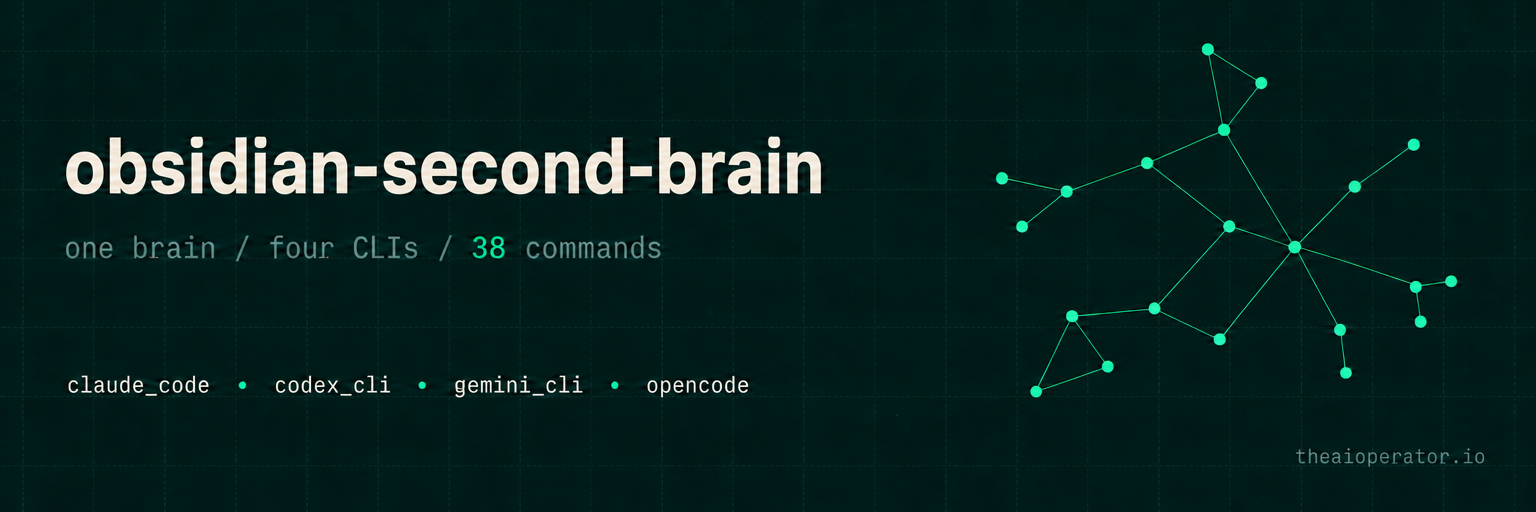
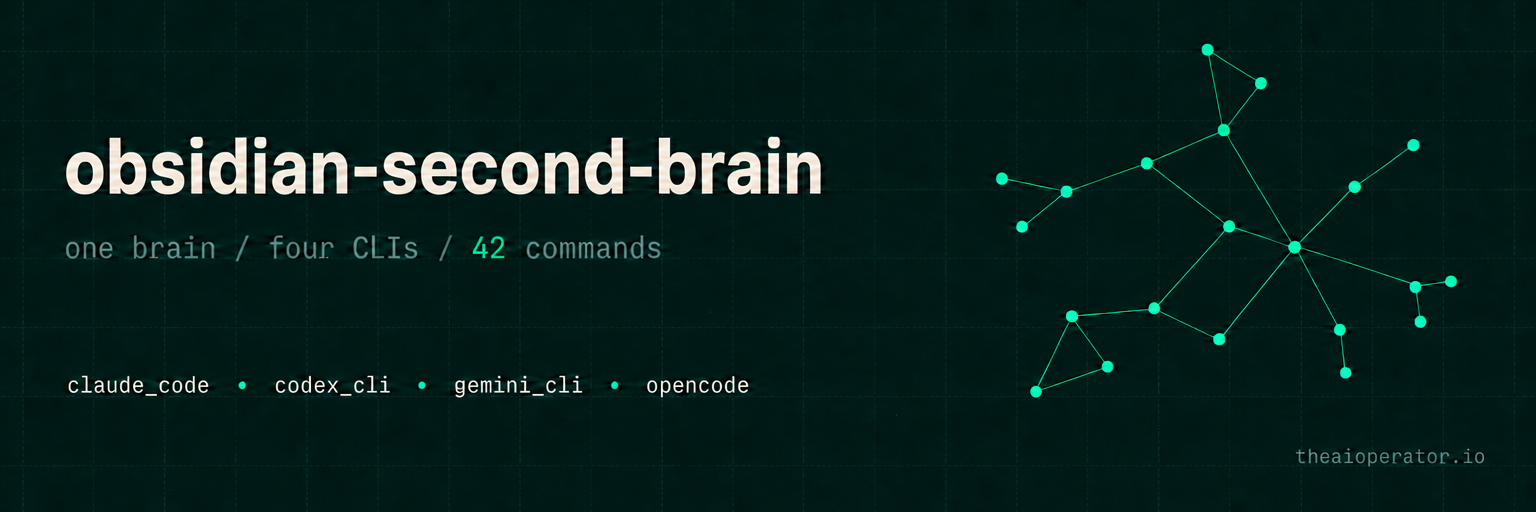
Add 4 commands: /obsidian-calendar, /vault-deep-synthesis, /idea-discovery, /obsidian-panel (#53)
- /obsidian-calendar (Claude Code only): reconciles the vault against the
  calendar, flags vault-implied commitments that are not scheduled. Flag
  only, never writes events. The inverse of /obsidian-daily's pull.
- /vault-deep-synthesis [topic]: topic-driven cross-reference of every
  note on a topic (agreements / contradictions / stale / gaps). Pure
  vault; distinct from the unprompted /obsidian-synthesize.
- /idea-discovery: ranks 3-5 next-direction candidates from ungraduated
  ideas, open project questions, and orphan research.
- /obsidian-panel: convenes a panel of distinct lenses on a decision
  (optional Advisors/ folder, else 4 generic lenses); multi-persona
  complement to /obsidian-challenge.

The 3 thinking commands reuse the existing type: synthesis schema (no new
schema). Adapted from fork sources, de-personalized, AI-first +
anti-fabrication footers added. Counts bumped to 42 (vault 16, thinking
13; 38 cross-platform, calendar is Claude-only); banner 38 -> 42. Also
fixed leftover "the the ... fork fork" de-naming artifacts in CHANGELOG.

Implements FORK_INSIGHTS.md #11, #12, #13, #14.

diff --git a/SKILL.md b/SKILL.md
@@ -106,7 +106,7 @@ See `references/vault-schema.md` for full structural details.
 ## Core Operating Principles
 
 ### AI-first vault rule (applies to every note)
-The vault is designed for **future-Claude** to read and reason over, not for human review. Every note Claude writes - across all 38 commands - must follow `references/ai-first-rules.md`:
+The vault is designed for **future-Claude** to read and reason over, not for human review. Every note Claude writes - across all 42 commands - must follow `references/ai-first-rules.md`:
 
 1. **Self-contained context** - each note explains itself; don't rely on backlinks alone
 2. **"For future Claude" preamble** - 2-3 sentence summary so Claude can decide relevance in 10 seconds
@@ -409,6 +409,14 @@ Resolve the event (`last`, `next`, `today`, `event-id:<id>`, or fuzzy title), cr
 **Tracks a recurring obligation (payment, filing, ops) with a cadence and a computed next-due date.**
 
 State the obligation and cadence (e.g. "pay social benefits, monthly day 20"). Searches for an existing note first, then builds a `type: recurring-task` note with What / Cadence / Blockers / History sections and frontmatter (`cadence`, `owner`, `blocker`, `next-due`, optional `amount`). Adds a board card for the next occurrence; on each completion, appends a History row and advances `next-due`. Fills the gap that `/obsidian-task` (one-shot) leaves.
+
+---
+
+### `/obsidian-calendar`
+
+**Reconciles the vault against your calendar - flags commitments implied by notes that are not scheduled.** Claude Code only (needs the Google Calendar MCP).
+
+Window argument (`today` / `this week` / `this month`, default this week). Pulls the calendar, then gathers vault-implied commitments by listing and grepping (project `next_action`s and deadlines, due tasks, commitments in recent daily notes, fixed dates in `CRITICAL_FACTS.md`), and reports the gap in two directions. **Flag only - never adds, moves, or changes calendar events.** The inverse of `/obsidian-daily`'s calendar pull.
 
 ---
 
@@ -775,6 +783,30 @@ Steps:
 8. Link the new project from today's daily note
 
 The idea doesn't die - it evolves. The original note stays as the origin story.
+
+---
+
+### `/obsidian-panel`
+
+**Convenes a panel of distinct perspectives on a decision - one independent verdict per lens, then a synthesis.**
+
+A multi-persona complement to `/obsidian-challenge` (which red-teams from one stance). Uses the vault's `Advisors/` persona notes as panelists if they exist, otherwise four generic lenses (skeptic, user, operator, long-game). Each panelist argues independently before the synthesis; the disagreement is the point and is never hidden. Saves a `type: synthesis` note to `wiki/concepts/`.
+
+---
+
+### `/vault-deep-synthesis [topic]`
+
+**Cross-references everything the vault knows about one topic: agreements, contradictions, stale claims, coverage gaps.**
+
+Topic-driven (unlike `/obsidian-synthesize`, which scans the whole vault unprompted). Pure vault, no network. Greps and reads every note touching the topic, then consolidates into what the vault agrees on, where notes contradict (surfaced, not resolved - that is `/obsidian-reconcile`), what looks stale, and what is missing. Saves a `type: synthesis` note; never modifies the sources.
+
+---
+
+### `/idea-discovery`
+
+**Ranks 3-5 next-direction candidates from ungraduated ideas, open project questions, and orphan research.**
+
+Answers "what is worth doing next" from vault material. Distinct from `/obsidian-emerge` (names unstated patterns) and `/obsidian-graduate` (promotes one chosen idea). Ranks candidates by a stated heuristic (recency, pull, momentum) and gives the smallest next step for each. Does not auto-graduate.
 
 ---
 

diff --git a/commands/obsidian-calendar.md b/commands/obsidian-calendar.md
@@ -1,0 +1,31 @@
+---
+description: Reconcile the vault against your calendar - flag deadlines and commitments implied by notes that are not on the calendar. Flag only, never adds events
+category: vault
+exclude: [codex-cli, gemini-cli, opencode]
+triggers_en: ["calendar check", "reconcile calendar", "what's not on my calendar", "calendar reconciliation", "am I missing anything on my calendar"]
+---
+
+Use the obsidian-second-brain skill. Execute `/obsidian-calendar $ARGUMENTS`:
+
+Catch the gap between what the vault knows you need to do and what is actually scheduled. The optional argument is a window (`today`, `this week`, `this month`); default to this week.
+
+This command requires a Google Calendar MCP (the claude.ai connector exposes `mcp__claude_ai_Google_Calendar__list_calendars` and `mcp__claude_ai_Google_Calendar__list_events`; if your calendar MCP namespaces its tools differently, use that server's equivalents). If no calendar MCP is connected, say so and stop.
+
+1. Read `_CLAUDE.md` and `CRITICAL_FACTS.md` (for timezone) if they exist.
+2. **Pull the calendar** for the window: find the primary calendar, then list events with times.
+3. **Gather what the vault implies** for the same window - by listing and grepping, never from memory (see the anti-fabrication rule):
+   - Active project `next_action`s and dated deadlines in project notes.
+   - Tasks/board items due in the window.
+   - Commitments mentioned in recent daily notes and captures (appointments, calls, travel, filing deadlines, birthdays).
+   - Fixed dates from `CRITICAL_FACTS.md` falling in the window.
+4. **Reconcile and report**, in two directions:
+   - **Vault-implied, not on the calendar** - the headline output. For each, state the item, its source note (`[[wikilink]]`), and the date/urgency.
+   - **On the calendar, no vault context** (lighter) - events that might warrant a prep note or project link.
+5. **Flag only - never add, move, or change calendar events.** This is a hard boundary. For each gap, propose what the user could do ("add a hold?", "needs a prep note?") but do not touch the calendar.
+6. Offer to record the reconciliation in today's daily note (inject into a section, do not overwrite) so the gaps are tracked; on request, add tasks for items the user intends to act on.
+
+---
+
+**AI-first rule:** Every note created or updated by this command MUST follow `references/ai-first-rules.md` - `## For future Claude` preamble, rich frontmatter (`type`, `date`, `tags`, `ai-first: true`, plus type-specific fields), recency markers per external claim, mandatory `[[wikilinks]]` for every person/project/concept referenced, sources preserved verbatim with URLs inline, and confidence levels where applicable. The vault is for future-Claude retrieval - not human reading.
+
+**Anti-fabrication:** Only flag commitments that actually appear in the vault or calendar - never invent a deadline or "should be scheduled" item that is not grounded in a note. Before claiming a calendar event has no vault note, search exhaustively (grep by event name, attendees, and any address across all folders) - false absence is the most common failure mode. Mark unknowns as `TBD`. See the anti-fabrication and search-completeness hard rules in `references/ai-first-rules.md`.

diff --git a/commands/vault-deep-synthesis.md b/commands/vault-deep-synthesis.md
@@ -1,0 +1,25 @@
+---
+description: Deep cross-reference of everything the vault knows about one topic - agreements, contradictions, stale claims, and coverage gaps. Pure vault, no network
+category: thinking
+triggers_en: ["synthesize what I know about", "deep synthesis on", "cross-reference my notes on", "what does my vault say about"]
+---
+
+Use the obsidian-second-brain skill. Execute `/vault-deep-synthesis [topic]`:
+
+A focused, topic-driven cross-reference of the existing vault. Unlike `/obsidian-synthesize` (which scans the whole vault for unnamed patterns unprompted), this takes a topic you name and reads every note touching it to produce one consolidated view. Pure vault: no network, no API keys.
+
+1. Resolve the topic from the argument. If none, ask what to synthesize.
+2. Find every note that references the topic - grep and list exhaustively across `wiki/`, `Research/`, `Knowledge/`, `Ideas/`, and any project folders (do not sample; see the anti-fabrication rule). Match by every plausible name, alias, and folder.
+3. Read the matching notes and cross-reference them into:
+   - **What the vault agrees on** - claims multiple notes corroborate, with `[[wikilinks]]` to each.
+   - **Contradictions** - where notes disagree; name both `[[notes]]` and the specific conflict. Do not resolve them here (that is `/obsidian-reconcile`); just surface them.
+   - **Stale claims** - dated facts that may no longer hold (cite the note and the date).
+   - **Coverage gaps** - questions the topic raises that the vault does not answer.
+4. Write the synthesis to `wiki/concepts/YYYY-MM-DD - synthesis - <topic-slug>.md` (`type: synthesis`, tagged `[research, thinking, vault-deep-synthesis]`), listing the source notes it read in frontmatter.
+5. Do NOT modify the source notes - this command only reads and synthesizes. Append a one-line entry to the operation log.
+
+---
+
+**AI-first rule:** Every note created or updated by this command MUST follow `references/ai-first-rules.md` - `## For future Claude` preamble, rich frontmatter (`type`, `date`, `tags`, `ai-first: true`, plus type-specific fields), recency markers per external claim, mandatory `[[wikilinks]]` for every person/project/concept referenced, sources preserved verbatim with URLs inline, and confidence levels where applicable. The vault is for future-Claude retrieval - not human reading.
+
+**Anti-fabrication:** Enumerate the matching notes exhaustively, do not sample - a partial scan reported as complete produces confident wrong answers. Never invent a claim, contradiction, or source; if the vault is thin on the topic, say so. See the anti-fabrication and search-completeness hard rules in `references/ai-first-rules.md`.

diff --git a/commands/idea-discovery.md b/commands/idea-discovery.md
@@ -1,0 +1,24 @@
+---
+description: Surface 3-5 next-direction candidates by reading ungraduated ideas, open project questions, and orphan research notes - what is worth working on next
+category: thinking
+triggers_en: ["what should I work on next", "idea discovery", "surface next directions", "what's worth pursuing"]
+---
+
+Use the obsidian-second-brain skill. Execute `/idea-discovery`:
+
+Answers "what is worth doing next" from material already in the vault. Distinct from `/obsidian-emerge` (which names unstated patterns) and `/obsidian-graduate` (which promotes one chosen idea into a project) - this ranks several candidate directions so you can pick one.
+
+1. Gather candidate signals - list and grep exhaustively (see the anti-fabrication rule):
+   - Ungraduated ideas in `Ideas/` (status `captured` or `exploring`, not yet `graduated`).
+   - Open questions in active project notes (Open Questions sections, unresolved decisions).
+   - Orphan research notes in `Research/` that no project links to.
+2. Rank the candidates by a simple, stated heuristic: recency (touched recently), pull (how many notes reference or depend on it), and momentum (does anything already build toward it). State the heuristic in the output so the ranking is auditable.
+3. For each of the top 3-5, write: the candidate, why now, the `[[source notes]]`, and the smallest next step that would move it forward.
+4. Optionally suggest running `/research [topic]` on a candidate to pull external signal before committing, or `/obsidian-graduate` to promote one into a full project.
+5. Save the shortlist to `Ideas/YYYY-MM-DD - discovery.md` (`type: synthesis`, tagged `[thinking, idea-discovery]`) with source links in frontmatter. Do NOT auto-graduate anything - this command only surfaces and ranks.
+
+---
+
+**AI-first rule:** Every note created or updated by this command MUST follow `references/ai-first-rules.md` - `## For future Claude` preamble, rich frontmatter (`type`, `date`, `tags`, `ai-first: true`, plus type-specific fields), recency markers per external claim, mandatory `[[wikilinks]]` for every person/project/concept referenced, sources preserved verbatim with URLs inline, and confidence levels where applicable. The vault is for future-Claude retrieval - not human reading.
+
+**Anti-fabrication:** Rank only real candidates found in the vault - never invent an idea, an open question, or a research note to pad the shortlist. Enumerate `Ideas/`, project Open Questions, and orphan research exhaustively rather than sampling. See the anti-fabrication and search-completeness hard rules in `references/ai-first-rules.md`.

diff --git a/commands/obsidian-panel.md b/commands/obsidian-panel.md
@@ -1,0 +1,23 @@
+---
+description: Convene a panel of distinct perspectives on a decision - one independent verdict per lens, then a synthesis. A multi-persona complement to /obsidian-challenge
+category: thinking
+triggers_en: ["convene a panel", "advisor panel", "get multiple perspectives on", "panel review", "what would the experts say about"]
+---
+
+Use the obsidian-second-brain skill. Execute `/obsidian-panel [decision or question]`:
+
+Pressure-tests a decision from several independent angles at once. Where `/obsidian-challenge` red-teams from one adversarial stance, this gathers a panel of distinct lenses and makes each argue on its own before you see a synthesis.
+
+1. Resolve the decision/question from the argument. If none, ask what to put to the panel.
+2. Choose the panel:
+   - If the vault has an `Advisors/` folder, read those persona notes and use each as a panelist (each verdict reflects that advisor's stated lens and priorities).
+   - Otherwise, use 4 generic lenses: the skeptic (what breaks this), the user/customer (who is served or hurt), the operator (can this actually be run/maintained), and the long-game (what does this look like in a year).
+3. For EACH panelist, write an independent verdict: their position, the strongest reason behind it, and what would change their mind. Keep them genuinely distinct - do not let them converge prematurely.
+4. Write a synthesis: where the panel agreed, where it split, and a recommended decision with its main risk. Do not hide the disagreement - the split is the most useful output.
+5. Save to `wiki/concepts/YYYY-MM-DD - panel - <slug>.md` (`type: synthesis`, tagged `[thinking, panel]`), linking any `[[Advisors/...]]` notes and `[[entities/projects]]` the decision touches. Cross-link from today's daily note.
+
+---
+
+**AI-first rule:** Every note created or updated by this command MUST follow `references/ai-first-rules.md` - `## For future Claude` preamble, rich frontmatter (`type`, `date`, `tags`, `ai-first: true`, plus type-specific fields), recency markers per external claim, mandatory `[[wikilinks]]` for every person/project/concept referenced, sources preserved verbatim with URLs inline, and confidence levels where applicable. The vault is for future-Claude retrieval - not human reading.
+
+**Anti-fabrication:** If you use `Advisors/` notes, base each verdict on what that note actually says - do not invent an advisor's position or attribute views to a real person they have not expressed. Never fabricate a consensus; report the real split. See the anti-fabrication and search-completeness hard rules in `references/ai-first-rules.md`.

diff --git a/README.md b/README.md
@@ -1,6 +1,6 @@
 <p align="center">
   <a href="https://github.com/eugeniughelbur/obsidian-second-brain">
-    <img src="media/banner.png" alt="obsidian-second-brain: one brain, four CLIs, 38 commands. A cross-CLI skill for Obsidian that runs on Claude Code, Codex CLI, Gemini CLI, and OpenCode." width="100%" />
+    <img src="media/banner.png" alt="obsidian-second-brain: one brain, four CLIs, 42 commands. A cross-CLI skill for Obsidian that runs on Claude Code, Codex CLI, Gemini CLI, and OpenCode." width="100%" />
   </a>
 </p>
 
@@ -34,14 +34,14 @@
   <br /><br />
   <em>Every source updates existing pages instead of just appending new ones. Contradictions reconcile automatically. Your vault compounds while you sleep.</em>
   <br /><br />
-  <em>38 commands &middot; auto-synthesis &middot; thinking tools that argue with you</em>
+  <em>42 commands &middot; auto-synthesis &middot; thinking tools that argue with you</em>
   <br /><br />
   <em>live research from X, the web, and YouTube &middot; 4 scheduled agents &middot; 4 role presets</em>
   <br /><br />
   <em>write-time AI-first validator &middot; <code>/create-command</code> interview flow &middot; multilingual trigger schema</em>
   <br /><br />
   <a href="#what-happens-when-you-install-this">See it in action</a> &middot;
-  <a href="#38-commands">All commands</a> &middot;
+  <a href="#42-commands">All commands</a> &middot;
   <a href="#install">Install</a> &middot;
   <a href="#choose-your-preset">Presets</a> &middot;
   <a href="https://github.com/eugeniughelbur/obsidian-second-brain/discussions">Discussions</a>
@@ -216,12 +216,12 @@ Free transcript via youtube-transcript-api. Optional metadata + top comments via
 ```
   +------------------------------------------+
   |                                          |
-  |   LAYER 1: Operations (26 commands)      |
+  |   LAYER 1: Operations (27 commands)      |
   |   Claude remembers everything            |
   |                                          |
   +------------------------------------------+
   |                                          |
-  |   LAYER 2: Thinking Tools (4 commands)   |
+  |   LAYER 2: Thinking Tools (7 commands)   |
   |   Claude thinks with you                 |
   |                                          |
   +------------------------------------------+
@@ -243,7 +243,7 @@ Free transcript via youtube-transcript-api. Optional metadata + top comments via
   +------------------------------------------+
 ```
 
-38 commands total. The 3 Google Calendar commands (in Operations) are Claude Code only, so the Codex / Gemini / OpenCode builds ship 35.
+42 commands total. The 3 Google Calendar commands (in Operations) are Claude Code only, so the Codex / Gemini / OpenCode builds ship 38.
 
 **Layer 1** saves, organizes, ingests, reconciles, exports, schedules your calendar, and maintains your vault.
 **Layer 2** challenges your ideas, surfaces hidden patterns, bridges unrelated domains, and graduates ideas into projects.
@@ -253,7 +253,7 @@ Free transcript via youtube-transcript-api. Optional metadata + top comments via
 
 ---
 
-## 38 Commands
+## 42 Commands
 
 ### Operations -- Claude remembers
 
@@ -268,6 +268,7 @@ Free transcript via youtube-transcript-api. Optional metadata + top comments via
 | `/obsidian-agenda` | Reads Google Calendar and writes an AI-first snapshot (conflicts, focus blocks, attendee links) |
 | `/obsidian-schedule` | Creates or moves a Google Calendar event from a task or standalone, links it back to the task |
 | `/obsidian-meeting` | Generates a meeting note from a calendar event (attendees, time, link pre-filled) |
+| `/obsidian-calendar` | Reconciles the vault against your calendar - flags commitments not yet scheduled (flag only) |
 | `/obsidian-recurring` | Tracks a recurring obligation with a cadence and a computed next-due date |
 | `/obsidian-log` | Logs a work session, links it everywhere |
 | `/obsidian-task` | Adds task to the right board with priority and due date |
@@ -291,8 +292,11 @@ Free transcript via youtube-transcript-api. Optional metadata + top comments via
 | Command | What it does |
 |---|---|
 | `/obsidian-challenge` | Your vault argues against your idea using your own history |
+| `/obsidian-panel` | Convenes a panel of distinct perspectives on a decision, one verdict each + synthesis |
 | `/obsidian-emerge` | Surfaces patterns from 30 days of notes you never named |
 | `/obsidian-connect [A] [B]` | Bridges two unrelated domains to spark new ideas |
+| `/vault-deep-synthesis [topic]` | Cross-references every note on a topic: agreements, contradictions, stale claims, gaps |
+| `/idea-discovery` | Ranks 3-5 next-direction candidates from ideas, open questions, and orphan research |
 | `/obsidian-graduate` | Turns an idea fragment into a full project with tasks |
 
 ### Context -- Claude knows you
@@ -619,7 +623,7 @@ Keys you need:
 | `YOUTUBE_API_KEY` | [console.cloud.google.com](https://console.cloud.google.com) | `/youtube` metadata + comments (optional, transcripts free without) | Free tier 10k units/day |
 | `OPENAI_API_KEY` | [platform.openai.com](https://platform.openai.com/api-keys) | `/podcast` Whisper transcription (optional, falls back to show-notes if unset) | ~$0.006/min |
 
-Without keys, the 30 non-research commands work fully, and `/research` + `/research-deep` fall back to free, key-less sources. The rest of the research toolkit degrades gracefully.
+Without keys, the 34 non-research commands work fully, and `/research` + `/research-deep` fall back to free, key-less sources. The rest of the research toolkit degrades gracefully.
 
 ---
 
@@ -638,7 +642,7 @@ An Obsidian plugin runs inside Obsidian and is written in TypeScript against Obs
 Run the one-line installer from the Install section below. It clones the repo to `~/.claude/skills/obsidian-second-brain` and symlinks the slash commands into `~/.claude/commands/` so Claude Code picks them up automatically. Restart Claude Code after install. The skill loads on every session that touches an Obsidian vault.
 
 ### Does this work with Codex CLI, Gemini CLI, or OpenCode?
-Yes. The repo ships a build script that compiles the platform-neutral source into four platform-specific outputs: Claude Code (slash commands + `CLAUDE.md`), Codex CLI (`AGENTS.md` + `.codex/commands/`), Gemini CLI (`GEMINI.md` + `.gemini/commands/`), and OpenCode (`AGENTS.md` + `.opencode/commands/`). Run `bash scripts/build.sh --platform codex-cli` (or another platform name), then copy the resulting `dist/<platform>/` tree into your vault. The non-Claude builds auto-generate a routing table that maps natural-language triggers to command files, so the same 35 cross-platform commands work no matter which CLI you use (the 3 Google Calendar commands are Claude Code only, since they depend on the claude.ai Calendar connector). The vault rules (AI-first notes, frontmatter, wikilinks, recency markers) are identical across all four platforms.
+Yes. The repo ships a build script that compiles the platform-neutral source into four platform-specific outputs: Claude Code (slash commands + `CLAUDE.md`), Codex CLI (`AGENTS.md` + `.codex/commands/`), Gemini CLI (`GEMINI.md` + `.gemini/commands/`), and OpenCode (`AGENTS.md` + `.opencode/commands/`). Run `bash scripts/build.sh --platform codex-cli` (or another platform name), then copy the resulting `dist/<platform>/` tree into your vault. The non-Claude builds auto-generate a routing table that maps natural-language triggers to command files, so the same 38 cross-platform commands work no matter which CLI you use (the 3 Google Calendar commands are Claude Code only, since they depend on the claude.ai Calendar connector). The vault rules (AI-first notes, frontmatter, wikilinks, recency markers) are identical across all four platforms.
 
 ### Does this work with Obsidian Sync?
 Yes. The skill writes to your vault as standard markdown files. Obsidian Sync, iCloud, Syncthing, and Git-based sync all work without modification.

diff --git a/CHANGELOG.md b/CHANGELOG.md
@@ -8,7 +8,8 @@ The format is based on [Keep a Changelog](https://keepachangelog.com/en/1.1.0/),
 
 ### Added
 
-- **CI gate for substitution characters.** `scripts/sweep_non_ascii.py` gained a `--check` mode that exits non-zero when a banned substitution character (em-dash, en-dash, curly quotes, Unicode math, ellipsis, non-breaking space) appears in prose in any tracked `.md`/`.py`/`.sh` file. Characters inside code fences and inline backtick spans are preserved and never fail the check. Wired into `.github/workflows/ci.yml` so the rule is enforced on every push and PR (complements the write-time `validate-ai-first.sh` hook, which only covers vault notes). Two new smoke tests lock the behavior. (FORK_INSIGHTS.md #49; pattern from the the calendar/workflow fork fork, generalized to the full banned-character set.)
+- **Four more commands.** `/obsidian-calendar` (Claude Code only) reconciles the vault against your calendar and flags commitments implied by notes that are not scheduled - flag only, never writes events (the inverse of `/obsidian-daily`'s calendar pull). `/vault-deep-synthesis [topic]` cross-references every note on a topic into agreements / contradictions / stale claims / coverage gaps (pure vault; topic-driven, distinct from the unprompted `/obsidian-synthesize`). `/idea-discovery` ranks 3-5 next-direction candidates from ungraduated ideas, open project questions, and orphan research. `/obsidian-panel` convenes a panel of distinct lenses on a decision (uses an optional `Advisors/` folder, else four generic lenses), a multi-persona complement to `/obsidian-challenge`. The three thinking commands reuse the existing `type: synthesis` schema. (FORK_INSIGHTS.md #11-14.)
+- **CI gate for substitution characters.** `scripts/sweep_non_ascii.py` gained a `--check` mode that exits non-zero when a banned substitution character (em-dash, en-dash, curly quotes, Unicode math, ellipsis, non-breaking space) appears in prose in any tracked `.md`/`.py`/`.sh` file. Characters inside code fences and inline backtick spans are preserved and never fail the check. Wired into `.github/workflows/ci.yml` so the rule is enforced on every push and PR (complements the write-time `validate-ai-first.sh` hook, which only covers vault notes). Two new smoke tests lock the behavior. (FORK_INSIGHTS.md #49; pattern from the calendar/workflow fork, generalized to the full banned-character set.)
 
 ## [0.9.0] - 2026-05-31
 
@@ -19,13 +20,13 @@ The format is based on [Keep a Changelog](https://keepachangelog.com/en/1.1.0/),
 
 ### Added
 
-- **`/obsidian-recurring` - track a recurring obligation with a cadence and a computed next-due date.** Builds a `type: recurring-task` note (What / Cadence / Blockers / History), adds a board card for the next occurrence, and advances `next-due` on each completion. Fills the gap that `/obsidian-task` (one-shot) leaves. Adds the `recurring-task` schema to `references/ai-first-rules.md`. (FORK_INSIGHTS.md #15; from the the calendar/workflow fork fork. The other workflow commands in that fork - proposal, event, 1on1, launch-block - were intentionally left to domain forks per ECOSYSTEM.md rather than added upstream.)
-- **Google Calendar commands: `/obsidian-agenda`, `/obsidian-schedule`, `/obsidian-meeting`.** Claude Code only (they use the claude.ai Google Calendar MCP connector, so they are excluded from the Codex/Gemini/OpenCode builds). `/obsidian-agenda` writes a re-derivable `agenda-snapshot` note for a range (today/tomorrow/week/next-week/date/range) with conflict, back-to-back, focus-block, and external-organizer detection, cross-linking attendees to person notes. `/obsidian-schedule` creates or reschedules events from a task or standalone, resolving attendee emails from person notes (never guessing) and writing the event id/url back to the task. `/obsidian-meeting` generates a `meeting` note from an event with empty Notes/Decisions/Action-items sections (never fabricated). Adds `agenda-snapshot` and `meeting` schemas to `references/ai-first-rules.md`. (FORK_INSIGHTS.md #8-11; from the the calendar/workflow fork fork)
-- **Free (key-less) mode for `/research` and `/research-deep`.** Both commands now work with no API keys. Mode is auto-selected: when `PERPLEXITY_API_KEY` is set they use Perplexity/Grok exactly as before; when it is not (or `--free` is passed) they aggregate free, key-less sources in parallel - Wikipedia, HackerNews, arXiv, Reddit, Lobsters, dev.to, OpenAlex, Semantic Scholar, CrossRef, DuckDuckGo (SearXNG fallback) - and emit JSON that the calling Claude synthesizes into the same AI-first dossier. `--academic` restricts free mode to scholarly sources. New `scripts/research/lib/` layer: 11 source clients, a parallel aggregator (30s timeout, "success" at >= 3 sources, never crashes on a per-source failure), a 24h-TTL cache, a shared polite-UA session, and an env-based `source_config` deliberately decoupled from the vault path so the sources import with no vault and no keys. Previously these commands hard-errored without a Perplexity key - the main adoption barrier. 6 new no-network unit tests; CI installs `requests`. (FORK_INSIGHTS.md #1-6; from the the research-toolkit fork fork)
-- **Anti-fabrication and search-completeness guards.** Adds a non-negotiable hard-rules section to `references/ai-first-rules.md` covering three failure modes: false absence (never claim a note/person/file is absent without an exhaustive search - the single most common observed failure), search completeness (enumerate exhaustively, do not sample), and no fabrication (never invent facts/entities/dates; mark unknowns `TBD`; an empty section is correct when nothing was said). Echoed in the SKILL.md operating principles and `references/write-rules.md`, plus a per-command **Anti-fabrication** footer on the 33 commands that write vault notes (`create-command` excepted - it writes command files, not notes). Fills a real gap: the repo had an AI-first write spec but no hallucination guard. (FORK_INSIGHTS.md #26-28; from the the pillar-vault fork fork)
-- **First automated tests + CI.** `tests/test_smoke.py` adds two stdlib-only smoke tests (the codex-cli adapter build emits `AGENTS.md` plus command bodies; `vault_health.py --json` reports a clean two-note linked vault) and `.github/workflows/ci.yml` runs them on every push to `main` and every PR. Adds a pytest `dev` dependency group to `pyproject.toml`. Closes the long-standing "no automated test suite yet" gap. (FORK_INSIGHTS.md #47, #48; pattern from the the tests fork fork)
+- **`/obsidian-recurring` - track a recurring obligation with a cadence and a computed next-due date.** Builds a `type: recurring-task` note (What / Cadence / Blockers / History), adds a board card for the next occurrence, and advances `next-due` on each completion. Fills the gap that `/obsidian-task` (one-shot) leaves. Adds the `recurring-task` schema to `references/ai-first-rules.md`. (FORK_INSIGHTS.md #15; from the calendar/workflow fork. The other workflow commands in that fork - proposal, event, 1on1, launch-block - were intentionally left to domain forks per ECOSYSTEM.md rather than added upstream.)
+- **Google Calendar commands: `/obsidian-agenda`, `/obsidian-schedule`, `/obsidian-meeting`.** Claude Code only (they use the claude.ai Google Calendar MCP connector, so they are excluded from the Codex/Gemini/OpenCode builds). `/obsidian-agenda` writes a re-derivable `agenda-snapshot` note for a range (today/tomorrow/week/next-week/date/range) with conflict, back-to-back, focus-block, and external-organizer detection, cross-linking attendees to person notes. `/obsidian-schedule` creates or reschedules events from a task or standalone, resolving attendee emails from person notes (never guessing) and writing the event id/url back to the task. `/obsidian-meeting` generates a `meeting` note from an event with empty Notes/Decisions/Action-items sections (never fabricated). Adds `agenda-snapshot` and `meeting` schemas to `references/ai-first-rules.md`. (FORK_INSIGHTS.md #8-11; from the calendar/workflow fork)
+- **Free (key-less) mode for `/research` and `/research-deep`.** Both commands now work with no API keys. Mode is auto-selected: when `PERPLEXITY_API_KEY` is set they use Perplexity/Grok exactly as before; when it is not (or `--free` is passed) they aggregate free, key-less sources in parallel - Wikipedia, HackerNews, arXiv, Reddit, Lobsters, dev.to, OpenAlex, Semantic Scholar, CrossRef, DuckDuckGo (SearXNG fallback) - and emit JSON that the calling Claude synthesizes into the same AI-first dossier. `--academic` restricts free mode to scholarly sources. New `scripts/research/lib/` layer: 11 source clients, a parallel aggregator (30s timeout, "success" at >= 3 sources, never crashes on a per-source failure), a 24h-TTL cache, a shared polite-UA session, and an env-based `source_config` deliberately decoupled from the vault path so the sources import with no vault and no keys. Previously these commands hard-errored without a Perplexity key - the main adoption barrier. 6 new no-network unit tests; CI installs `requests`. (FORK_INSIGHTS.md #1-6; from the research-toolkit fork)
+- **Anti-fabrication and search-completeness guards.** Adds a non-negotiable hard-rules section to `references/ai-first-rules.md` covering three failure modes: false absence (never claim a note/person/file is absent without an exhaustive search - the single most common observed failure), search completeness (enumerate exhaustively, do not sample), and no fabrication (never invent facts/entities/dates; mark unknowns `TBD`; an empty section is correct when nothing was said). Echoed in the SKILL.md operating principles and `references/write-rules.md`, plus a per-command **Anti-fabrication** footer on the 33 commands that write vault notes (`create-command` excepted - it writes command files, not notes). Fills a real gap: the repo had an AI-first write spec but no hallucination guard. (FORK_INSIGHTS.md #26-28; from the pillar-vault fork)
+- **First automated tests + CI.** `tests/test_smoke.py` adds two stdlib-only smoke tests (the codex-cli adapter build emits `AGENTS.md` plus command bodies; `vault_health.py --json` reports a clean two-note linked vault) and `.github/workflows/ci.yml` runs them on every push to `main` and every PR. Adds a pytest `dev` dependency group to `pyproject.toml`. Closes the long-standing "no automated test suite yet" gap. (FORK_INSIGHTS.md #47, #48; pattern from the tests fork)
 - **`hooks/obsidian-bg-agent.hook.yaml` and `hooks/postcompact.hook.example.json`:** the background agent now ships with an `enabled: false` hook declaration and a paste-in settings template documenting the opt-in steps. (FORK_INSIGHTS.md #33)
-- **`references/DELTAS.template.md`:** a fork-customization template. Forkers copy it to `DELTAS.md` at their fork root to record local deviations in one place that upstream never touches, so `git merge upstream/main` stays conflict-free. Pointer added to the README fork section. (FORK_INSIGHTS.md #50; pattern from the the DELTAS fork fork)
+- **`references/DELTAS.template.md`:** a fork-customization template. Forkers copy it to `DELTAS.md` at their fork root to record local deviations in one place that upstream never touches, so `git merge upstream/main` stays conflict-free. Pointer added to the README fork section. (FORK_INSIGHTS.md #50; pattern from the DELTAS fork)
 - **Non-ASCII substitution character check in `validate-ai-first.sh` (check 5):** the hook now detects banned Unicode that slips in silently via LLM defaults: em-dashes (`—`), en-dashes (`–`), curly/smart quotes, Unicode math substitutions (`≥ ≤ ≠`), ellipsis (`…`), and non-breaking spaces. Each violation reports the exact codepoint, line number, and a suggested ASCII replacement. Whitelist covers box-drawing chars (U+2500-257F), arrows (`→ ←`), currency symbols (`€ £ ¥`), private-use / Nerd Font codepoints, and emoji - all carry semantic meaning rather than substituting for ASCII. Specific em-dash ban was unenforceable in practice; the broader codepoint-level check catches the full substitution-Unicode class. Rule documented in `CLAUDE.md` conventions and `references/ai-first-rules.md` anti-patterns table.
 
 ### Documentation
@@ -35,7 +36,7 @@ The format is based on [Keep a Changelog](https://keepachangelog.com/en/1.1.0/),
 
 ### Fixed
 
-- **Dead calendar tool reference in `/obsidian-daily`.** The calendar pull referenced a bare `google_calendar_list_events`, which can never match a tool (MCP tools are namespaced `mcp__<server>__<name>`), so the `## Calendar` section was effectively never populated. Now points at the real claude.ai Google Calendar connector tools (`list_calendars` + `list_events`), resolves the primary calendar first, and keeps a fallback note for users whose calendar MCP namespaces differently. (FORK_INSIGHTS.md #7; bug surfaced by the the calendar/workflow fork fork)
+- **Dead calendar tool reference in `/obsidian-daily`.** The calendar pull referenced a bare `google_calendar_list_events`, which can never match a tool (MCP tools are namespaced `mcp__<server>__<name>`), so the `## Calendar` section was effectively never populated. Now points at the real claude.ai Google Calendar connector tools (`list_calendars` + `list_events`), resolves the primary calendar first, and keeps a fallback note for users whose calendar MCP namespaces differently. (FORK_INSIGHTS.md #7; bug surfaced by the calendar/workflow fork)
 - **Removed remaining `--style obsidian` example from `SKILL.md`.** Issue #15 dropped the unimplemented `--style` example from the README but left the matching one in `SKILL.md`; this finishes that cleanup so the docs no longer advertise a flag `bootstrap_vault.py` does not accept.
 - **`bootstrap_vault.py` templates now AI-first compliant (#16):** all 17 templates emitted by the bootstrapper (`Daily Note`, `Project`, `Person`, `Task`, `Dev Log`, `Goal`, `Mention`, `Meeting`, `Decision`, `OKR`, `Architecture`, `Debug`, `Post`, `Audience Note`, `Source`, `Literature Note`, `Hypothesis`) now include `type:` and `ai-first: true` in frontmatter plus a `## For future Claude` preamble in the body. Notes created from these templates now pass `hooks/validate-ai-first.sh` cleanly. Previously every Write/Edit on a templated note warned, undermining the AI-first rule the skill is built around. `Templates/Source.md` renamed its existing `type:` field to `source_kind:` to free up `type:` for the ai-first frontmatter (the field was for book/paper/podcast/video, never the note's ai-first type). Added a `references/ai-first-rules.md` reference block to the top of `bootstrap_vault.py` so future contributors see the rule.
 - **Removed broken `--style obsidian` example from README (#15):** the `scripts/bootstrap_vault.py --style obsidian` example in the Vault Architecture section advertised a flag that was never implemented. PR #14 wired `--preset` and `--mode` but not `--style`. Dropped the stale example per the issue's recommended Option B. If a `--style` flag ships later it gets re-added then.